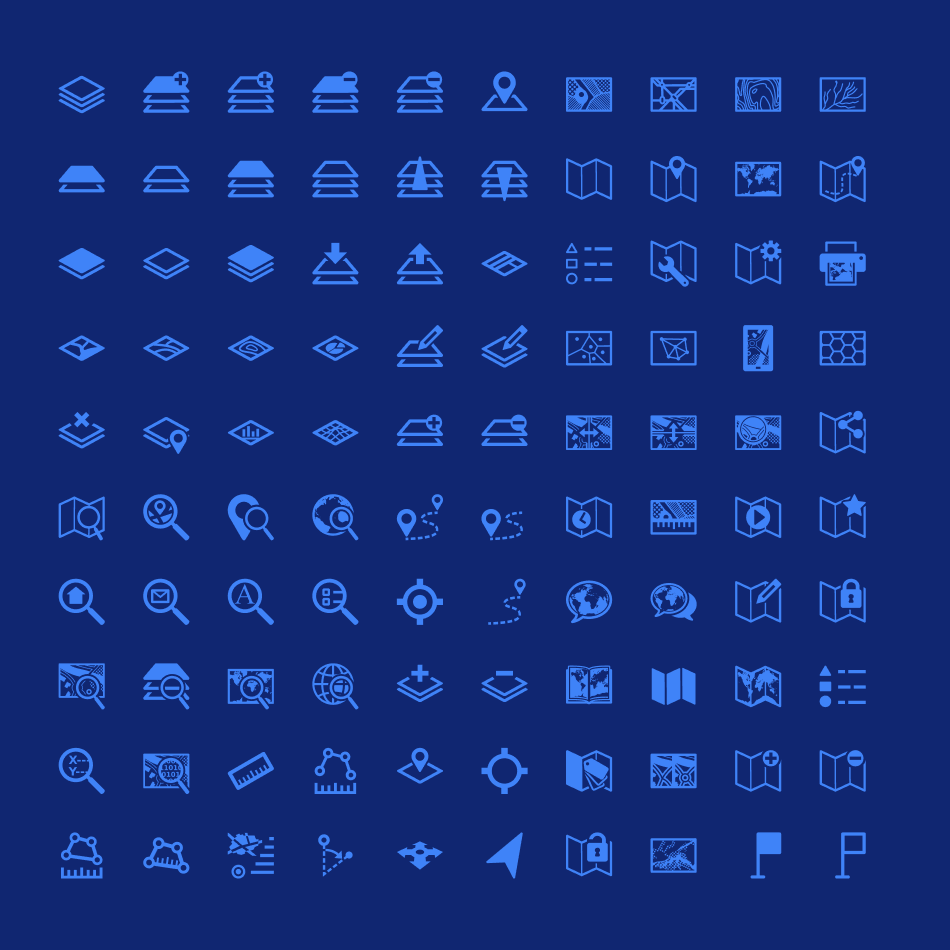
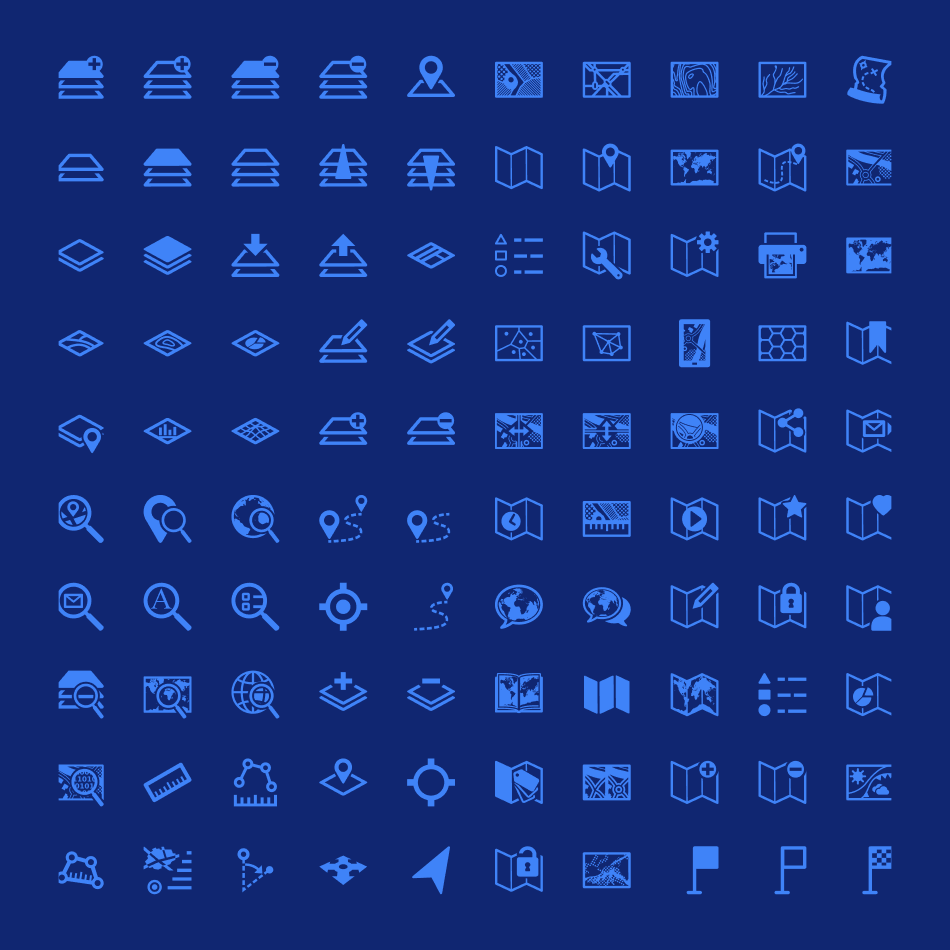
Version to show Norman

diff --git a/_style-overwrites.css b/_style-overwrites.css
@@ -36,7 +36,7 @@
  
 
 body {
-    background-color: #e6e6e6;
+    background-color:rgba(247,246,242,1.0);
 }
 
 @media (max-width: 767px) {
@@ -481,19 +481,34 @@ height: 200px; */
 }
 
 .big-section-title,
-.big-section-title-opener {
-    font-family: var(--alt-text-2);
-    font-size: 32px;
-    line-height: 1em;
-    font-weight: 700;
-    padding: 0 100px 0 8px;
+.big-section-title h4, 
+.big-section-title h5,
+.big-section-title h6 {
+    font-family: var(--alt-text-2)!important;
+    /* font-size: 32px; */
+    line-height: 1em!important;
+    font-weight: 700!important;
+    padding: 0 50px 0 0px;
+    color: rgba(0, 0, 0, 0.8);
 }
 
 .big-section-title-opener {
+
+}
+
+/* This is intro text in home, right below hero section.*/
+.big-section-title-opener,
+.big-section-title-opener h4,
+.big-section-title-opener h5,
+.big-section-title-opener h6{
     font-weight: 500 !important;
     line-height: 1.1em !important;
+        font-family: var(--alt-text-2)!important;
+    /* font-size: 32px; */
+    line-height: 1.2em!important;
+    font-weight: 500!important;
+    color: #111!important;
 }
-
 
 .idd .section-divider-light {
     background-color: unse !important;
@@ -701,13 +716,13 @@ img.mfp-img {
     line-height: 1.2em !important;
 }
 
-#home-projects-grid-01 h4,
+/* #home-projects-grid-01 h4,
 #home-projects-grid-02 h4 {
     font-family: var(--alt-text) !important;
     font-weight: 500 !important;
     color: var(--primary-color) !important;
 
-}
+} */
 
 #home-projects-grid-01 {
     padding: 130px 0 200px 0 !important;
@@ -1158,7 +1173,6 @@ video {
   }
 
 
-
     .btn-to-atlas-ds-page.btn{
     /* border-bottom: 2px solid rgba(255,255,255,0.8);
     text-decoration: none!important; */
@@ -1182,6 +1196,32 @@ video {
     /* border-bottom: 1px solid #ffffff; */
     color: #FFF !important;
     font-size: 15px;
+}
+
+   .button-area-various{
+        display: flex;
+    flex-direction: column;
+    row-gap: 10px;
+    margin: 0 0 40px 0;
+   }
+
+
+
+#resume-02 .btn-view-website-area{
+        margin-left: 8px;
+    padding: 6px 12px;
+    width: fit-content;
+    border: 2px solid rgba(0,0,0,0.5)!important; margin-left: 8px; padding-left: 8px;
+        display: flex;
+    flex-direction: row;
+    align-items: flex-end;
+    justify-content: space-between;
+    gap: 0px;
+}
+
+#resume-02 .btn-to-atlas-ds-page a{
+        font-size: 17px;
+           color: #000!important;
 }
 
 
@@ -1320,7 +1360,7 @@ video {
     justify-content: flex-end;
     align-items: flex-end;
     padding: 0 !important;
-    background: #172041 url(projects/atlas-design-system/atlas-topo-bg-alpha.png) left no-repeat !important;
+    background: #1a2346 url(projects/atlas-design-system/atlas-topo-bg-alpha.png) left no-repeat !important;
     background-size: 70% !important;
 }
 
@@ -3034,8 +3074,8 @@ h6 .anchor-emphasis {
 }
 
 
-.atlas #anchor-03.anchor-wrapper{background-color: #232c4f;}
-.atlas #anchor-04.anchor-wrapper{background-color: #3d404b;}
+.atlas #anchor-03.anchor-wrapper{background-color:#3c5480;}
+.atlas #anchor-04.anchor-wrapper{background-color:  #232c4f;}
 
 .admin #anchor-01.anchor-wrapper {background-color: unset;}
 .admin #anchor-02.anchor-wrapper {background-color: #616161;}

diff --git a/testing-code/hiding youtube items over video container.html b/testing-code/hiding youtube items over video container.html
@@ -1,0 +1,58 @@
+<!DOCTYPE html>
+<html lang="en">
+  <head>
+
+  </head>
+  <body>
+
+<h4>Hiding title and other things from YouTube container</h4>
+
+
+<div class="yt-wrapper">
+	<div class="yt-frame-container">
+		<iframe width="560" height="315" src="https://www.youtube.com/embed/G5EvbNWh1-k?si=5v_SBB1D_cUQ1FYS&amp;controls=0" title="YouTube video player" frameborder="0" allow="accelerometer; autoplay; clipboard-write; encrypted-media; gyroscope; picture-in-picture; web-share" referrerpolicy="strict-origin-when-cross-origin" allowfullscreen></iframe>
+	</div>
+</div>
+
+		<iframe width="560" height="315" src="https://www.youtube.com/embed/G5EvbNWh1-k?si=5v_SBB1D_cUQ1FYS&amp;controls=0" title="YouTube video player" frameborder="0" allow="accelerometer; autoplay; clipboard-write; encrypted-media; gyroscope; picture-in-picture; web-share" referrerpolicy="strict-origin-when-cross-origin" allowfullscreen></iframe>
+
+
+<!-- <iframe width="560" height="315" src="https://www.youtube.com/embed/G5EvbNWh1-k?si=5v_SBB1D_cUQ1FYS&amp;controls=0" title="YouTube video player" frameborder="0" allow="accelerometer; autoplay; clipboard-write; encrypted-media; gyroscope; picture-in-picture; web-share" referrerpolicy="strict-origin-when-cross-origin" allowfullscreen></iframe> -->
+
+<style>
+
+@media screen and (min-width: 768px){
+	.yt-wrapper {
+		overflow: hidden;
+		max-width: 100%;
+	}
+
+	.yt-frame-container {
+    		position: relative;
+    		padding-bottom: 56.25%; 
+    		padding-top: 25px;
+		width: 300%;
+    		left: -100%;
+	}
+
+	.yt-frame-container iframe {
+    		position: absolute; 
+    		top: 0; 
+    		left: 0; 
+    		width: 100%; 
+		height: 100%;
+		pointer-events:none;
+	}
+}
+
+@media screen and (max-width: 767px){
+	.yt-frame-container iframe {
+		aspect-ratio: 16/9;
+        	pointer-events:none;
+    }
+</style>
+
+
+
+  </body>
+</html>

diff --git a/home/home-strong-areas-cards.php b/home/home-strong-areas-cards.php
@@ -1,20 +1,31 @@
 <div class="col col-12 col-xl-6 col-lg-12 last-paragraph-no-margin grid-card-area">
     <div class=topic-cards>
-      <div class="margin-10px-bottom card-number">[01]</div>
-        <!-- <i class="icon-desktop icon-extra-medium text-deep-pink margin-20px-bottom"></i> -->
-         <div>
-            <h6 class="font-weight-700 alt-font-2 margin-10px-bottom">Deep, Meaningful Research</h6>
-            <p>Turning messy interview data and tangled processes into clear next steps for everyone.</p>
+      
+        <i class="icon-desktop icon-extra-medium text-deep-pink margin-20px-bottom"></i>
+         <div class="row">
+          <div class="col col-12 col-xl-11 col-lg-10 col-md-12 col-sm-10">
+            <div class="margin-10px-bottom card-number">[01]</div>
+            <h6 class="font-weight-700 alt-font-2 margin-10px-bottom padding-50px-right">Designing around complex technical constraints.</h6>
+            </div>
+            <div class="col col-12">
+<p>Turning messy interview data and tangled processes into clear next steps for everyone.</p>
+            </div>
          </div>
     </div>
 </div>
+
+
+
+
+
+
 
 <div class="col col-12 col-xl-6 col-lg-12 last-paragraph-no-margin grid-card-area">
     <div class=topic-cards>
       <div class="margin-10px-bottom card-number">[02]</div>
         <!-- <i class="icon-desktop icon-extra-medium text-deep-pink margin-20px-bottom"></i> -->
          <div>
-            <h6 class="font-weight-700 alt-font-2 margin-10px-bottom">Deep, Meaningful Research</h6>
+            <h6 class="font-weight-700 alt-font-2 margin-10px-bottom padding-50px-right">Design systems and everything else that requires high attention to detail and precision. </h6>
             <p>Turning messy interview data and tangled processes into clear next steps for everyone.</p>
          </div>
     </div>
@@ -25,8 +36,8 @@
       <div class="margin-10px-bottom card-number">[03]</div>
         <!-- <i class="icon-desktop icon-extra-medium text-deep-pink margin-20px-bottom"></i> -->
          <div>
-            <h6 class="font-weight-700 alt-font-2 margin-10px-bottom">Deep, Meaningful Research</h6>
-            <p>Turning messy interview data and tangled processes into clear next steps for everyone.</p>
+            <h6 class="font-weight-700 alt-font-2 margin-10px-bottom padding-50px-right">Identifying technical issues early on.  </h6>
+            <p>Making sure we ask developers the right questions, and translating technical concepts back to the design team.</p>
          </div>
     </div>
 </div>
@@ -36,7 +47,7 @@
       <div class="margin-10px-bottom card-number">[04]</div>
         <!-- <i class="icon-desktop icon-extra-medium text-deep-pink margin-20px-bottom"></i> -->
          <div>
-            <h6 class="font-weight-700 alt-font-2 margin-10px-bottom">Deep, Meaningful Research</h6>
+            <h6 class="font-weight-700 alt-font-2 margin-10px-bottom padding-50px-right">Deep, Meaningful Research</h6>
             <p>Turning messy interview data and tangled processes into clear next steps for everyone.</p>
          </div>
     </div> 

diff --git a/resume.php b/resume.php
@@ -47,7 +47,7 @@ $education = $stmt->fetchAll(PDO::FETCH_ASSOC);
             <img src="<?= BASE_URL ?>images/profile-pics/mmunoz-profile-bw-alpha.png">
             </div>
 
-            <div class="color-backdrop z-index-0">Hello?</div>
+            <div class="color-backdrop z-index-0"></div>
         </div>
 
     </section>
@@ -134,6 +134,37 @@ $education = $stmt->fetchAll(PDO::FETCH_ASSOC);
             <div class="row" style="flex-direction: column;">
                 <div class="big-number">02</div>
                 <div class="big-section-title margin-50px-bottom">Professional Experience</div>
+
+                <div class="row">
+                    <div class="col col-12 col-md-8">
+                        <div class="button-area-various">
+                        <div class="btn-view-website-area">
+                            <div class="dark-version btn btn-to-atlas-ds-page">
+                                <a href="<?= BASE_URL ?>about.php#toolset" target="_blank">View Knowledge & Skills</a>
+                            </div>
+                            <div class="btn-view-website">
+                                <img src="http://localhost:8000/images/arrow-view-website-black.svg">
+                            </div>
+                        </div>
+                        <div class="btn-view-website-area">
+                            <div class="dark-version btn btn-to-atlas-ds-page">
+                                <a href="<?= BASE_URL ?>about.php#unicorn" target="_blank">View Engineering Knowledge</a>
+                            </div>
+                            <div class="btn-view-website">
+                                <img src="http://localhost:8000/images/arrow-view-website-black.svg">
+                            </div>
+                        </div>
+                    </div>
+                </div>
+
+                </div>
+
+
+
+
+
+
+
             </div>
         </div>
 

diff --git a/about.php b/about.php
@@ -15,7 +15,7 @@
         <div class="row h-100" style="padding-top: 50px;">
             <div class="col col-12 col-lg-7 col-md-12 d-flex justify-content-center flex-column text-left text-md-start">
                 <div class="row" style="flex-direction: column;">
-                    <h1 class="lg-w-60 md-w-70 lg-line-height-auto sm-w-100 sm-margin-15px-bottom">About</h1>
+                    <h1 class="lg-w-60 md-w-70 lg-line-height-auto sm-w-100 sm-margin-15px-bottom">My Expertise</h1>
                     <h5>Text introducing UX engineering knowledge</h5>
                 </div>
             </div><!-- cols-->
@@ -83,7 +83,10 @@
             <div class="col col-12 col-lg-3 section-divider-numbered-02 p-0" style="flex-direction: column; justify-content: space-between;">
                 <div class="row" style="flex-direction: column; column-gap: 20px;">
                     <div class="big-number">02</div>
-                    <div class="big-section-title margin-50px-bottom">My Toolkit</div>
+                    <div class="big-section-title margin-50px-bottom">
+                        <h4>My Toolkit</h4>
+                        <h5>Add Statement</h5>
+                    </div>
                 </div>
             </div>
 

diff --git a/home/home-accordion-intro.php b/home/home-accordion-intro.php
@@ -4,8 +4,7 @@
       <div class="row">
          <div class="col col-12 col-lg-8 offset-lg-4">
             <div class="big-section-title-opener">
-               I'm trained in architecture and graphic design, and have 25+ years of multidisciplinary design experience
-               {print, brand, web}. For the past 12, I have been focused on product design and UX engineering.
+               <h5 class="font-weight-500">I'm trained in architecture and graphic design, and have 25+ years of multidisciplinary design experience {print, brand, web}. For the past 12, I have been focused on product design and UX engineering.</h5>
             </div>
          </div>
       </div>
@@ -18,7 +17,7 @@
          <!-- justify-content-center-->
          <div class="col col-12 col-xl-4 col-lg-6 section-divider-numbered-02 p-0" style="flex-direction: column;">
             <div class="big-number">01</div>
-            <div class="big-section-title">In a Nutshell</div>
+            <div class="big-section-title"><h4>In a Nutshell</h4></div>
          </div>
 
 

diff --git a/includes/global-nav.php b/includes/global-nav.php
@@ -15,7 +15,7 @@
 
             <div class="col col-10 col-md-10 text-right pr-0 nav-adjust temp-horizontal-nav">
                 <ul class="font-weight-600 ">
-                    <li><a href="<?= BASE_URL ?>about.php" class="inner-link">About</a></li>
+                    <li><a href="<?= BASE_URL ?>about.php" class="inner-link">Expertise</a></li>
                     <li><a href="<?= BASE_URL ?>resume.php" class="inner-link">Resume</a></li>
                     <div class="nav-divider"></div>
                     <li><a href="<?= BASE_URL ?>projects/atlas-ui/index.php" title="Atlas UI">CityBox</a></li>

diff --git a/index.php b/index.php
@@ -20,8 +20,7 @@
         <div class="col col-12 col-lg-4 section-divider-numbered-02" style="flex-direction: column;">
 
           <div class="big-number">02</div>
-          <div class="big-section-title">Work & Process</div>
-
+          <div class="big-section-title"><h4>Work & Process</h4></div>
 
           <div class="row justify-content-center home-strong-areas-tabs">
             <div class="col col-12 col-xl-11 col-sm-11 p-0 text-left tab-style3" id="animated-tab1">

diff --git a/home/home-project-grid.php b/home/home-project-grid.php
@@ -6,7 +6,7 @@
    <div class="row"  style="row-gap:40px;">
     <div class="col col-12 col-lg-4 section-divider-numbered-02 p-0">
       <div class="big-number">03</div>
-      <div class="big-section-title">Selected Work</div>
+      <div class="big-section-title"><h4>Selected Work</h4></div>
     </div>
    
 

diff --git a/projects/atlas-design-system/index.php b/projects/atlas-design-system/index.php
@@ -45,6 +45,8 @@ $slideshow = getAssets($pdo, 1, 'slideshow');
 
 
 
+
+
 <!--  @@@@@@@  --------------------- | Anchor | --------------------- @@@@@@@  -->
   <div id="anchor-01"class="anchor-wrapper"><!--@@@@---| Anchor | ---@@@@-->
     <div class="anchor-links">
